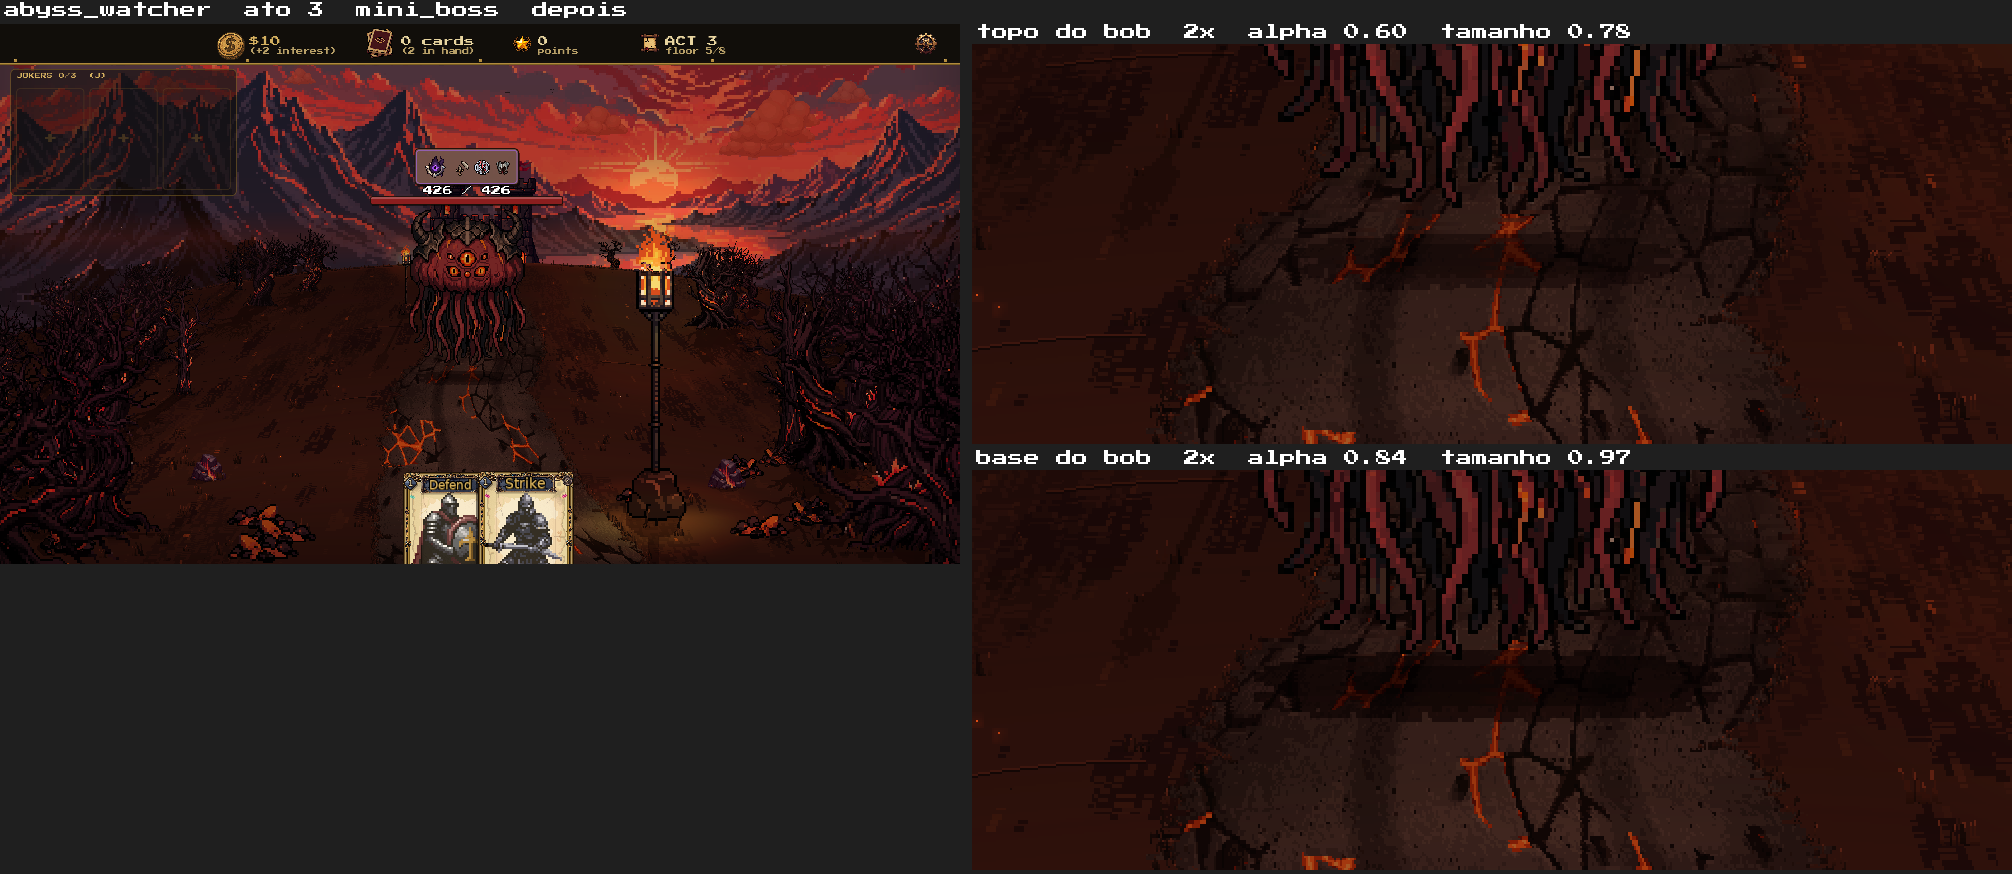
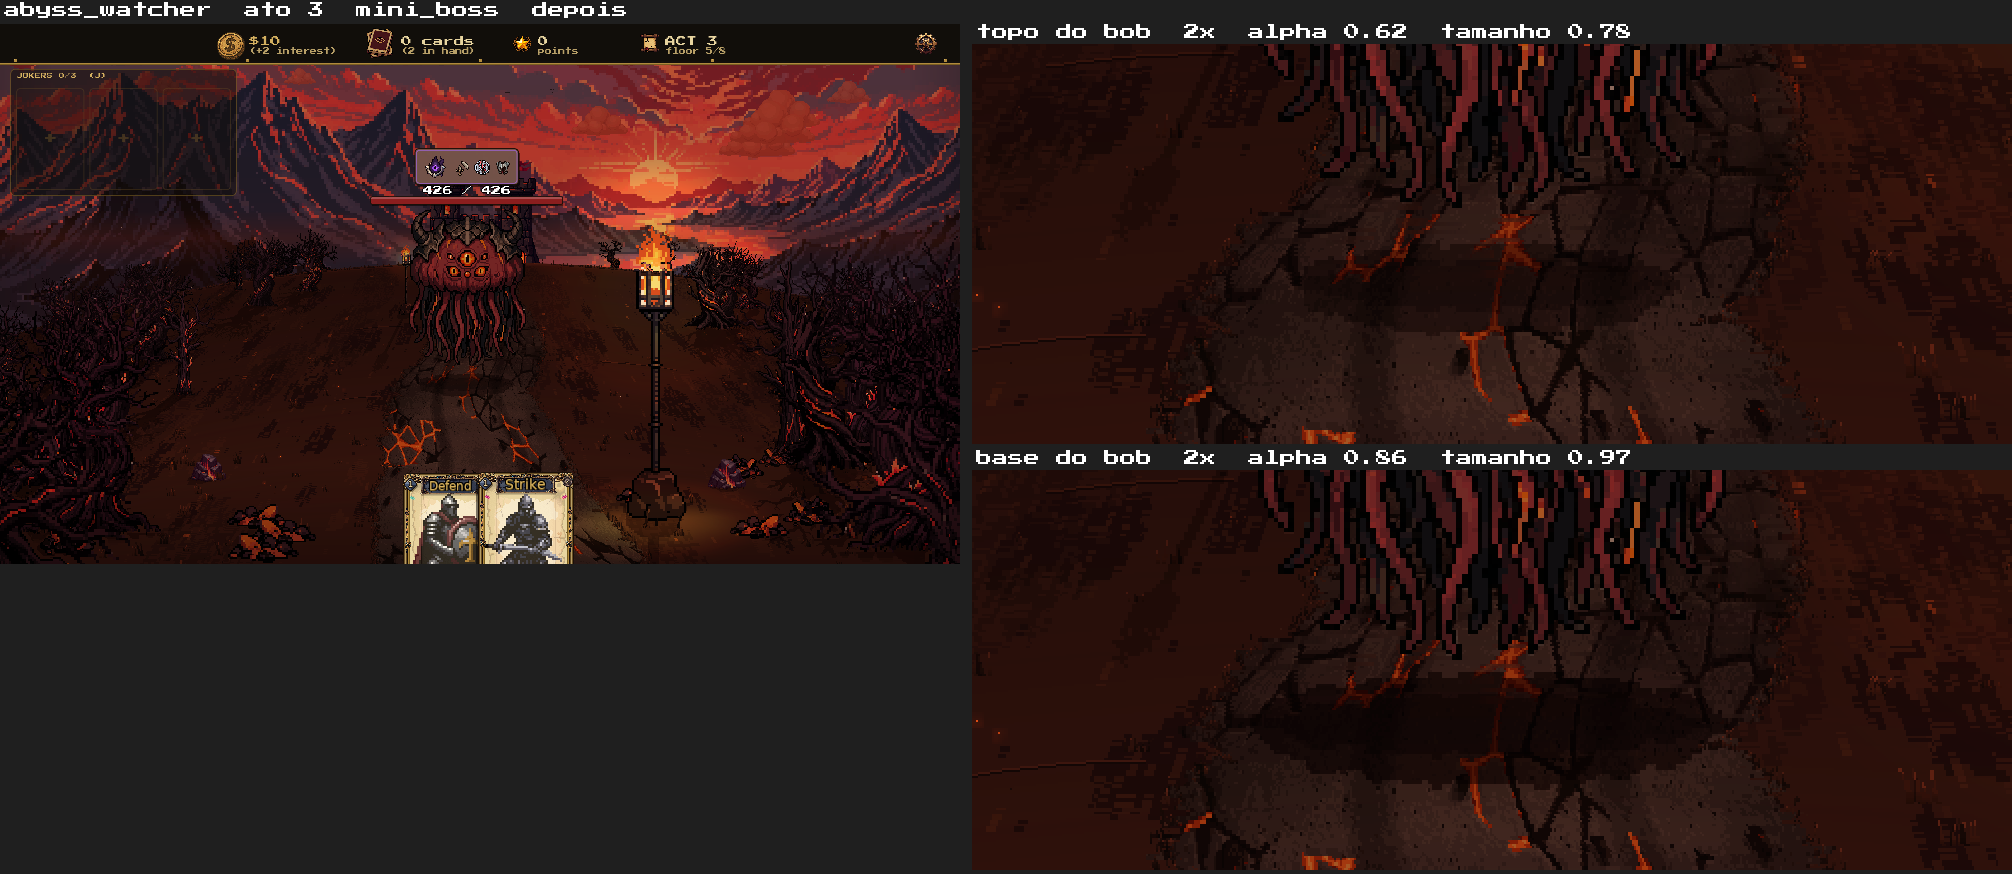
Sombra de voo v2: forma pelo perfil de colunas, curva do domo, acima da mao
Revisao: na estrada a sombra lia como barra reta (vigia, espectro,
morcego). A mascara passa a medir, por coluna do quadro atual, a massa
(fracao opaca) e a base (linha opaca mais baixa): a borda de tras segue
a massa, a da frente segue a base (barra do manto, pontas de tentaculo e
de asa), lente afina as pontas e ruido por celula de 3 colunas quebra a
lisura. Profundidade max(10% da altura, 10% da largura), ate 24% da
altura: morcego de asa aberta ganha corpo.

- WorldRoad.groundRadius: na estrada as pontas descem com o domo; no
  billboard da viagem usa o raio do quadro. Salao fica plano.
- GameplayScene passa o topo da mao (shadowMaxY): a sombra sobe para a
  frente nao sumir atras das cartas (salao do lich).
- test_floating_shadow: forma (fileira mais estreita <= 70% da mais
  larga) e curva do domo.
- Pranchas antes/depois refeitas em tools/preview_out/sombra_voo/.

diff --git a/memory/enemy_pose_and_scene_anchor.md b/memory/enemy_pose_and_scene_anchor.md
@@ -167,24 +167,31 @@ Antes o flutuante só tinha a silhueta PROJETADA do `ShadowEngine` (fraca:
 pico de 0,07 de escurecimento no salão do rei-carniça, invisível no
 tapete) e, sem frame de sombra, duas elipses concêntricas. Agora:
 
-- **Forma:** o quadro atual da animação desenhado num canvas em resolução de
-  ARTE, achatado (`FLAT` 0,12 da altura do conteúdo, no mínimo `MIN_ROWS` 8
-  linhas de arte, pra morcego/espectro pequenos não virarem fio) e 6% mais
-  largo, com união de 4 passadas deslocadas (fiapo fino não some). O canvas
-  é composto com `scale` inteiro do inimigo: borda dura em pixel de arte,
-  sem brilho, sem blur. O contorno é afinado nas pontas por uma lente
-  (`TAPER` 0,65 em shader, sobre o MEIO da largura do conteúdo), pra a faixa
-  de asa aberta não ler como régua; o recorte interno (pernas, tentáculos,
-  farrapos) continua o da silhueta. Nunca elipse lisa (o dono recusa bolha
-  redonda).
-- **Duas camadas:** faixa inteira (`ALPHA` 0,72) + núcleo (62% da largura e
-  da altura, `CORE_ALPHA` 0,5) em multiply, a cor é a tinta de sombra da
-  cena (`ShadowEngine.getTint()`: grade do bioma na estrada,
-  `GameplayScene.HALL_SHADOW` no salão; sem frame, `SceneGrade.shadowTint` ou
-  `FALLBACK_TINT`).
-- **Posição:** 55% da faixa atrás da linha do chão (`BACK`), o resto à frente;
-  o que fica atrás dos pés é coberto pelo corpo. Isso deixa a sombra acima da
-  mão nos salões (o chão do chefe encosta no topo das cartas).
+- **Forma (v2, mesmo dia, revisão do coordenador: "na estrada viram barras
+  retas"):** a forma vem do PERFIL DE COLUNAS do quadro atual, não das linhas
+  de baixo achatadas. Num shader de máscara em resolução de ARTE, cada coluna
+  mede a sua MASSA (fração opaca do topo ao pé, 40 amostras, vizinhas
+  ponderadas) e a sua BASE (linha opaca mais baixa). Profundidade da coluna =
+  `meia × massa^0,35 × lente` (`ROUND` 0,8 afina as pontas); a borda de trás
+  usa a massa, a da frente segue a base (barra de manto, ponta de tentáculo e
+  de asa recortam a frente); ruído por célula de 3 colunas (`RAG` 1,4 linha)
+  quebra a lisura. Meia-profundidade = `max(10% da altura, 10% da largura)`,
+  no máximo 24% da altura (morcego de asa aberta ganha corpo), mínimo 10
+  linhas. Núcleo = mesma forma a 55%, só onde a massa passa de 0,35. Composto
+  em multiply com escala inteira do inimigo: borda em degrau de pixel de
+  arte, sem brilho.
+- **Domo:** na estrada as pontas descem com a curva do chão
+  (`WorldRoad.groundRadius(rel, w, h)` → `bend = (meia-largura)² / 2R`, até 12
+  linhas); o billboard da viagem usa o raio do próprio quadro. Salão: plano.
+- **Duas camadas:** faixa (`ALPHA` 0,74) + núcleo (`CORE_ALPHA` 0,5), a cor é a
+  tinta de sombra da cena (`ShadowEngine.getTint()`: grade do bioma na
+  estrada, `GameplayScene.HALL_SHADOW` no salão; sem frame,
+  `SceneGrade.shadowTint` ou `FALLBACK_TINT`).
+- **Posição:** centro 35% da meia-profundidade à frente da linha do chão, e
+  nunca subindo além de deixar 40% do hover de vão sob o pé. Se a frente
+  passar do topo da mão (`opts.shadowMaxY` = topo das cartas, passado pelo
+  `GameplayScene` na estrada e no salão), a sombra sobe até caber (salão do
+  lich: o chão encosta nas cartas).
 - **Respira com o bob:** `FloatShadow.breath(liftK, hover, bob)`: mais alto =
   menor e mais clara (bob normalizado, `BOB_SIZE` 0,07 e `BOB_ALPHA` 0,16, mais
   `HOVER_SIZE` 1,6 pela altura absoluta e `HIGH_FADE` acima do bob, na
@@ -201,6 +208,10 @@ tapete) e, sem frame de sombra, duas elipses concêntricas. Agora:
   POUSADO, `alphaK × contactK`) entram. Sem inimigo, nada.
 - A silhueta projetada do flutuante no ar e a elipse dupla de fallback saíram.
 
+`dusk_shade` mantém a sombra de voo por cima da poça escura da âncora de
+entrada (`shadepool`): a poça é prop da entrada e pode faltar (Continuar);
+dentro dela a sombra quase não aparece, fora dela segura a leitura.
+
 Asas que PISAM continuam `grounded` (olhado o idle a 3x, 23/Out/2026):
 `storm_harpy` (talões no chão, agachada), `storm_griffin` (quatro patas
 plantadas), `fallen_angel` (botas no chão, espada), `moon_gargoyle`
@@ -208,7 +219,8 @@ plantadas), `fallen_angel` (botas no chão, espada), `moon_gargoyle`
 
 Trava: `love . test_one test_floating_shadow` (todo flutuante na estrada, no
 salão e sem frame: sombra existe, cruza a linha do chão, vão até o pé no
-topo do bob, respira, nunca por cima do corpo, sem elipse, reducedMotion
+topo do bob, respira, tem forma (a fileira mais estreita à frente do pé
+mede ≤ 70% da mais larga: nunca faixa reta), curva com o domo na estrada, nunca por cima do corpo, sem elipse, reducedMotion
 parado, some no cadáver pousado e sem inimigo, contorno de luz 0). Capturas:
 `lovec . test_one screenshot_sombra_voo [tag]` (topo e base do bob em
 1920x1080 + recorte 2x; `SOMBRA_VOO_MASK=1` grava também a versão sem a
